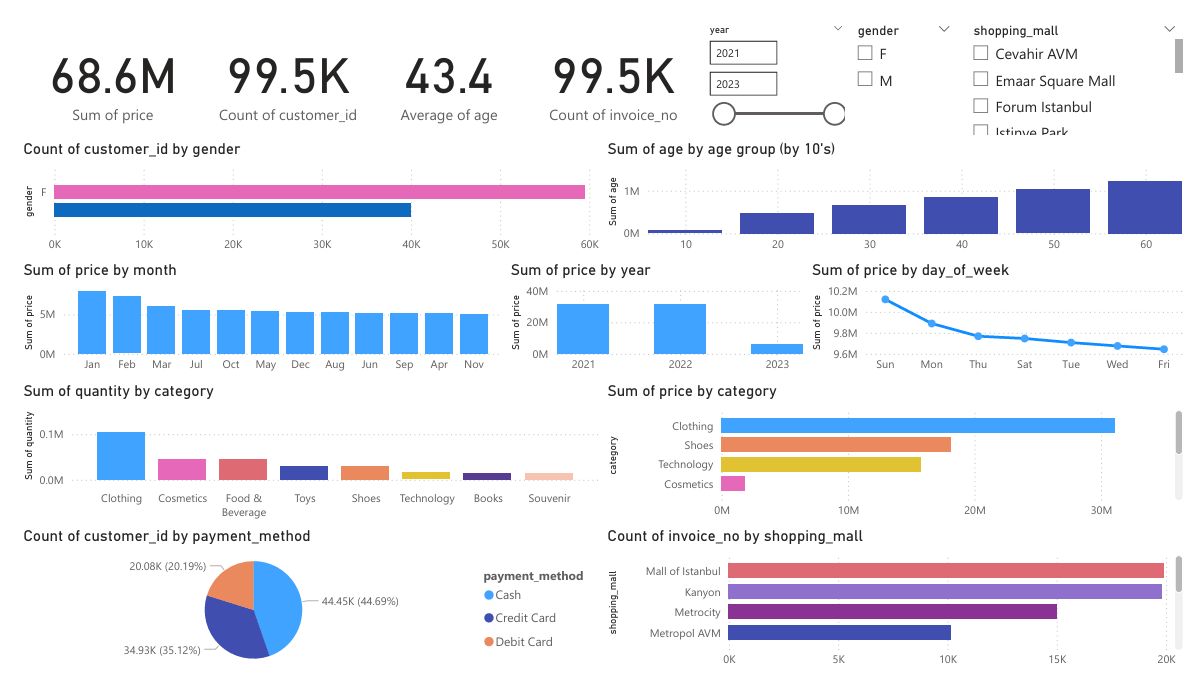
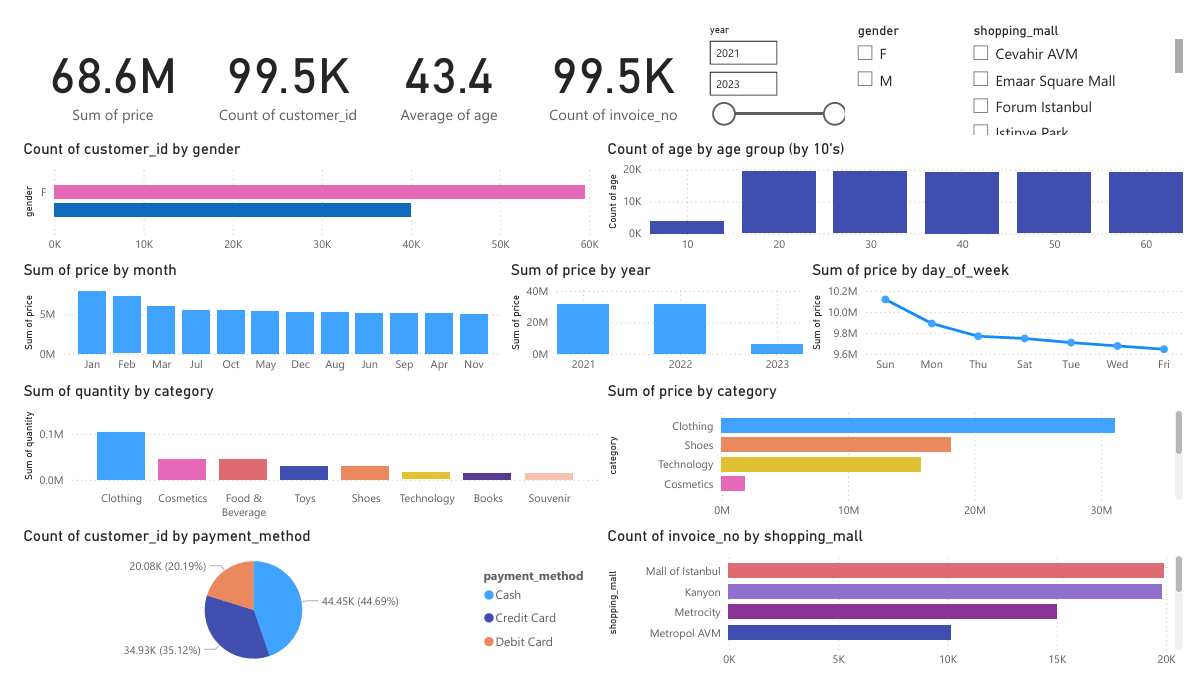
Additional insights and metric update

diff --git a/README.md b/README.md
@@ -72,6 +72,10 @@ Below are sample visualizations generated during EDA:
 | --------------------------------------------- |
 | ![](images/select_in_postgresql_database.png) |
 
+| Dashboard Preview in PowerBI                   |
+| ---------------------------------------------- |
+| ![](images/retail_sales_dashboard_preview.png) |
+
 ## Technologies Used
 
 - Python (pandas, matplotlib)
@@ -102,16 +106,64 @@ Below are sample visualizations generated during EDA:
 ├── notebooks/
 │   └── etl_customer_data.ipynb
 ├── powerbi/
-│   ├── dashboard_notes.md
 │   └── retail_sales_dashboard.pbix
 ```
 
 ## Results and Insights
 
-- No duplicate or null values found in the dataset.
-- Age and category distributions reveal customer demographics and popular products.
-- Payment methods and shopping mall locations show customer preferences.
-- Data successfully loaded into PostgreSQL for further analysis.
+### 1. Customer Demographics
+
+- **Gender split**: More female customers than male -> marketing campaigns could target women more, especially in high-value categories like clothing and cosmetics.
+- **Age distribution**: Customers are spread across different age groups, but the **20–60 age group** likely dominates. Younger and middle-aged adults are the primary shoppers.
+
+---
+
+### 2. Sales Trends Over Time
+
+- **By month**: Sales peak in **January** (possibly holiday/clearance shopping) and then gradually drop across the year. Suggests **seasonality** – marketing should push sales campaigns during low months.
+- **By year**: 2021 and 2022 show strong sales, while 2023 has a noticeable drop -> indicates a decline in recent performance, worth investigating (economic conditions, competition, or fewer promotions).
+- **By day of week**: Sales are fairly balanced, but Sun seem higher → customers shop more on restdays, so promotions and staffing should align with that.
+
+---
+
+### 3. Product Category Insights
+
+- **Clothing** dominates in both _quantity_ and _revenue_ → it’s the biggest driver of business.
+- **Shoes and Technology** also contribute significantly in revenue but not as much in quantity → higher-ticket items.
+- **Cosmetics, Food, Toys, Books, Souvenirs** are minor categories → could either be cross-sell opportunities or areas for growth campaigns.
+
+---
+
+### 4. Payment Behavior
+
+- **Cash** is the most common payment method (\~45%), followed by Credit Card (\~35%) and Debit Card (\~20%).
+- High cash dependency might suggest either cultural preference or limited card penetration. Offering **digital wallet/QR pay** could improve customer convenience.
+
+---
+
+### 5. Shopping Mall Performance
+
+- **Mall of Istanbul, Kanyon, Metrocity** are the top-performing malls by invoice count.
+- Other malls (Metropol AVM, Zorlu Center, etc.) lag behind, which may indicate:
+
+  - Lower foot traffic,
+  - Less effective mall marketing, or
+  - Higher competition.
+
+- Expansion efforts or targeted promotions may be more effective in top malls.
+
+---
+
+### Key Business Takeaways
+
+1. **Target female customers aged 20–40** → they are the core demographic.
+2. **Clothing drives revenue** → focus on maintaining and expanding this category, while exploring ways to boost underperforming ones.
+3. **Sales are seasonal** → leverage January spikes, but address mid-year drops with promotions.
+4. **Weekend shopping is stronger** → schedule promotions/events around Fri–Sun.
+5. **Cash dominates payments** → opportunity to push digital payment adoption.
+6. **Top malls bring most revenue** → double down marketing and partnerships with Mall of Istanbul, Kanyon, Metrocity.
+
+---
 
 ## Future Work
 
